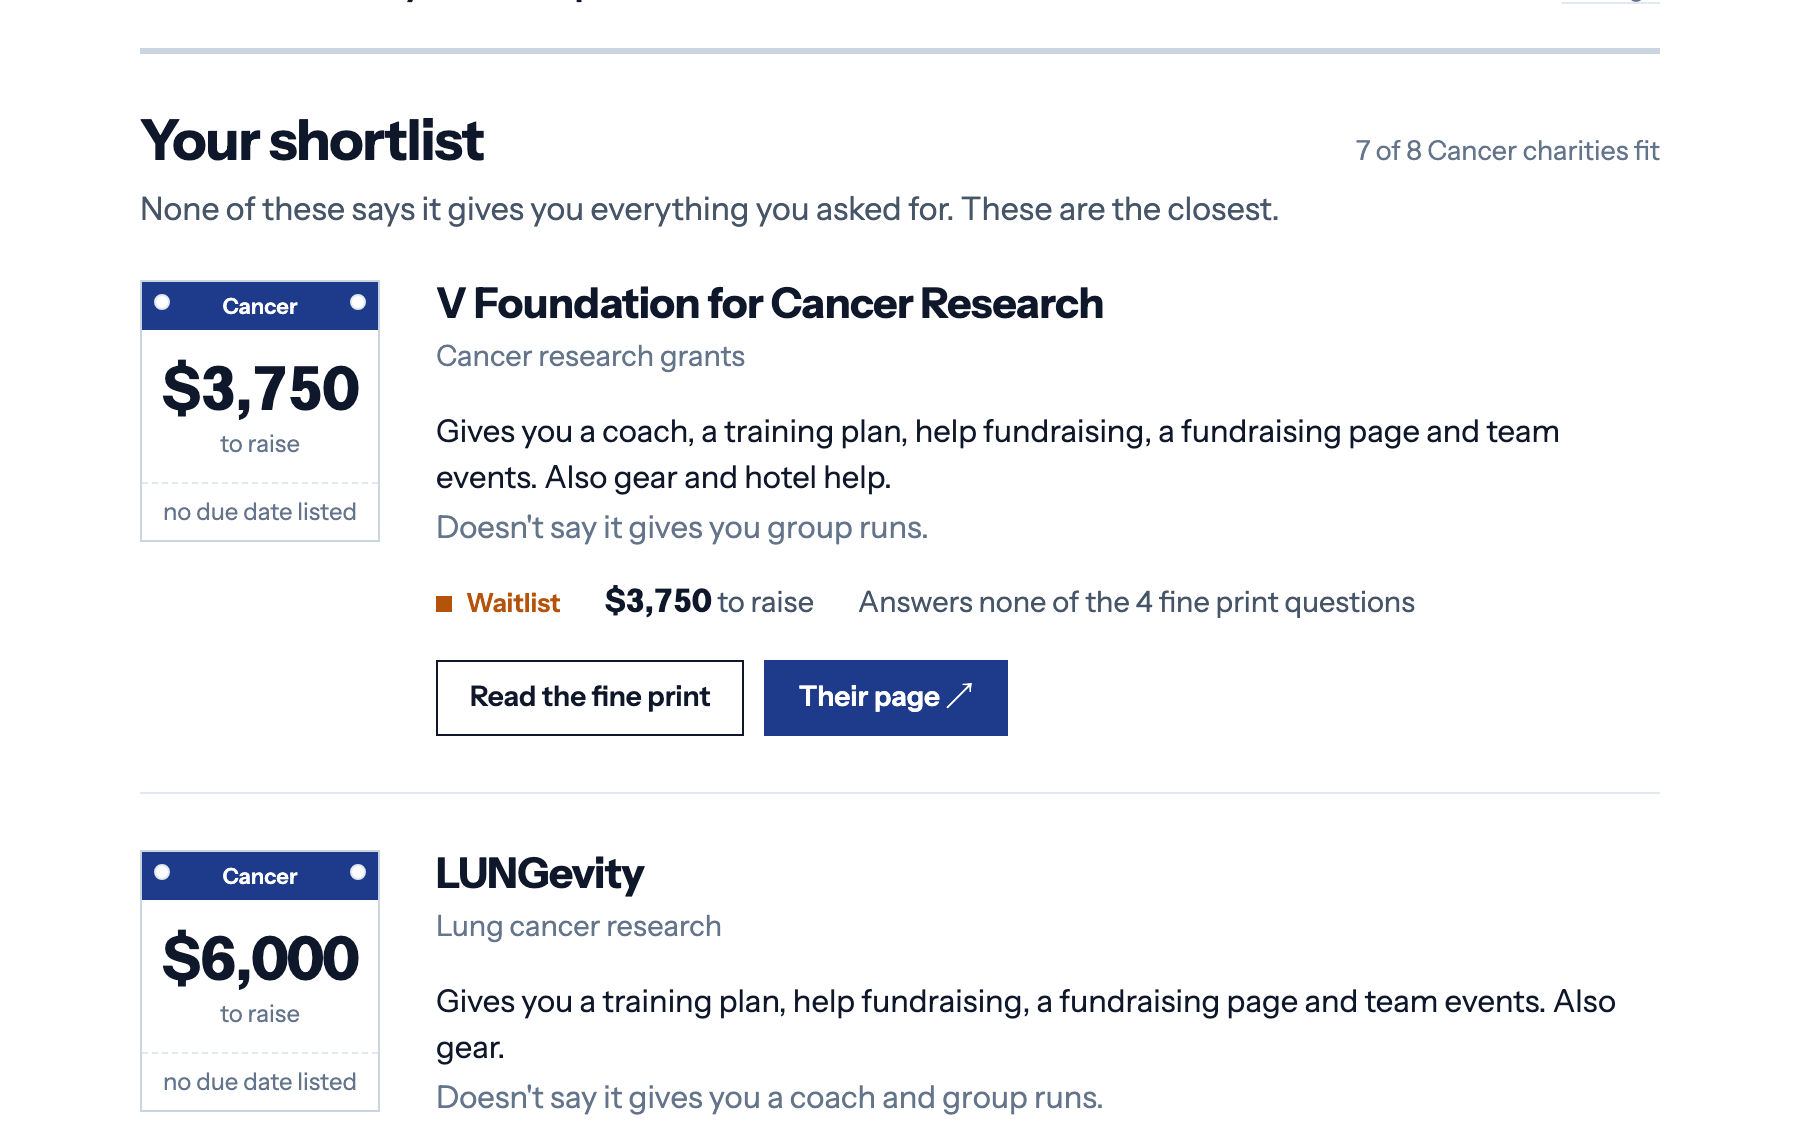
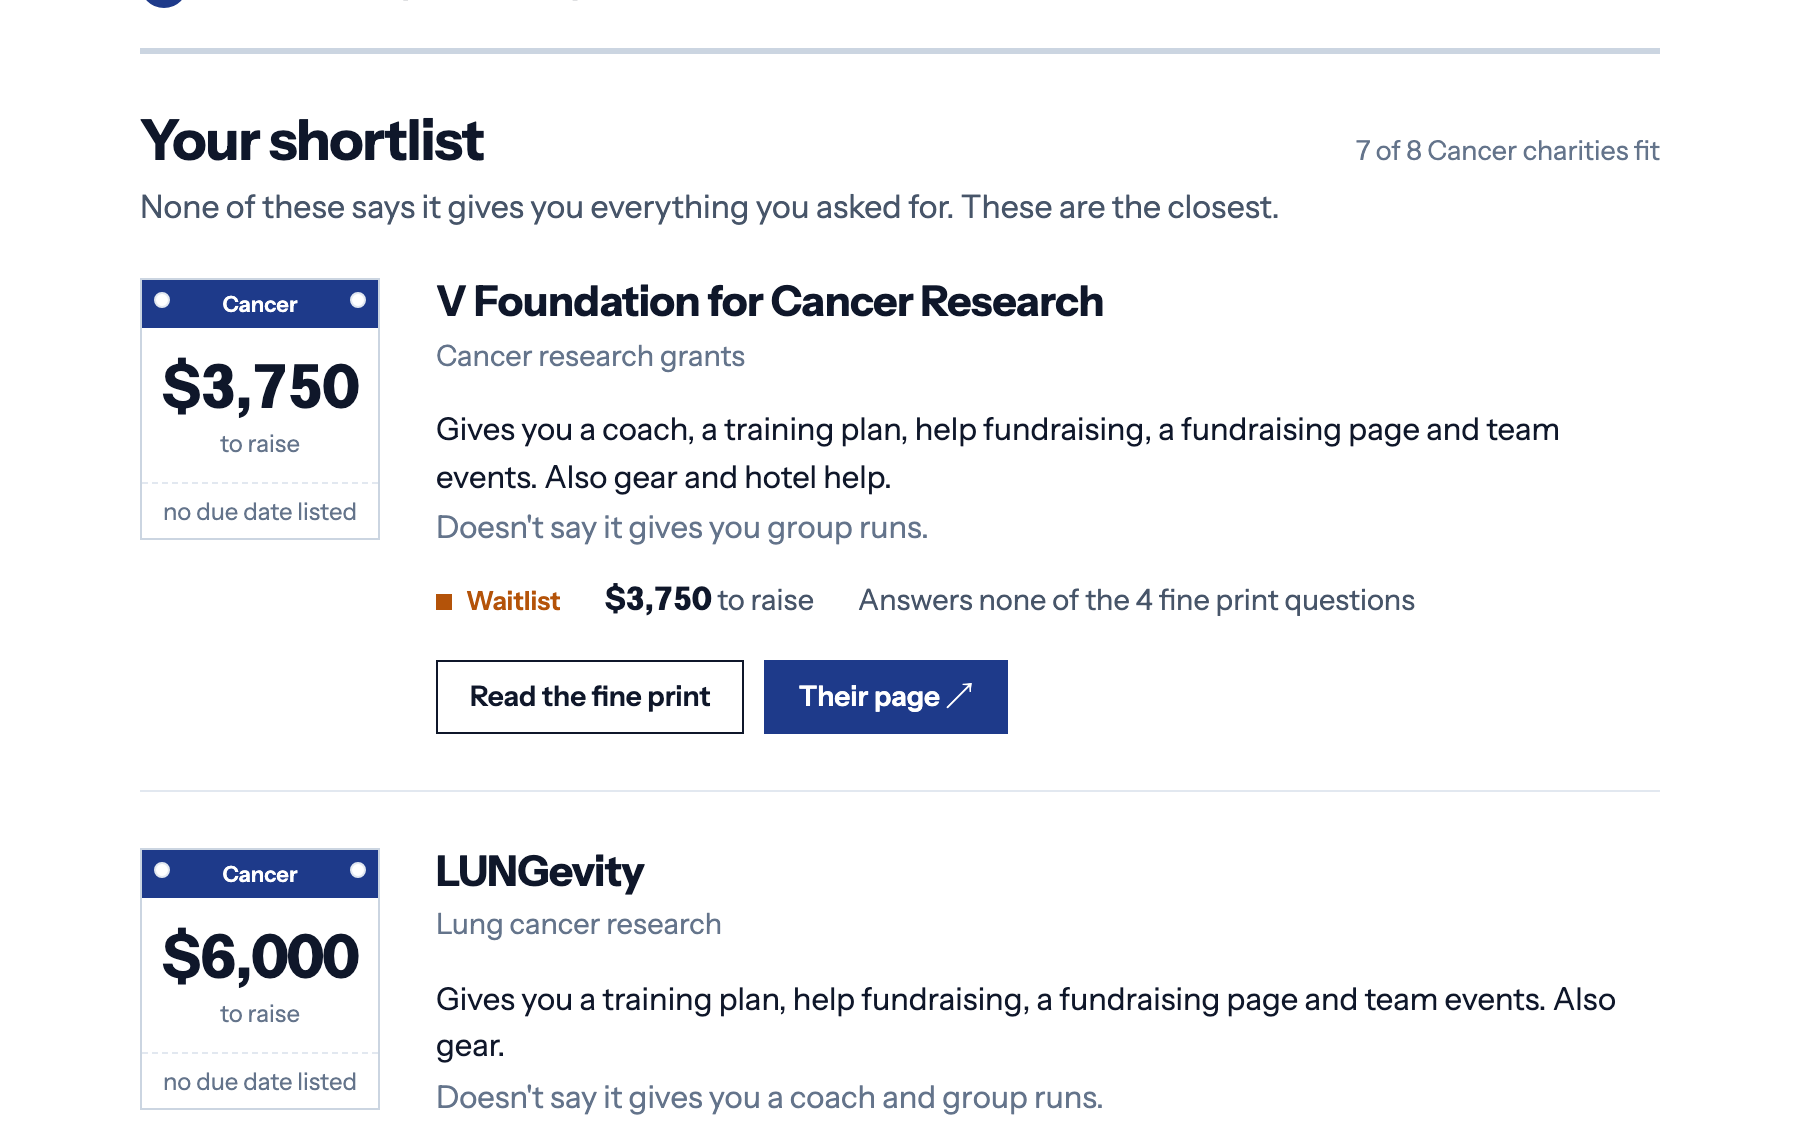
Plain headline and sub-line, header divider, numbered step circles; repair duplicated CSS rules

diff --git a/site/index.html b/site/index.html
@@ -7,8 +7,8 @@
 <meta name="description" content="Every NYC Marathon charity bib program in one place. Answer three questions and see which charities fit you: how much you'd raise, what each charity gives you, and who's still taking runners. Every number links to the charity's own page.">
 <link rel="canonical" href="https://charitybibs.com/">
 <meta property="og:type" content="website">
-<meta property="og:title" content="Which NYC Marathon charity should I run for?">
-<meta property="og:description" content="Answer three questions. See which charities fit, how much you'd raise, what they give you, and who's still taking runners.">
+<meta property="og:title" content="Find a charity to run the NYC Marathon for">
+<meta property="og:description" content="Three questions narrow the 27 official NYC Marathon charities to the ones that fit you: what you'd raise, what they give you, and who's still taking runners.">
 <meta property="og:url" content="https://charitybibs.com/">
 <meta property="og:image" content="https://charitybibs.com/og.png">
 <meta name="twitter:card" content="summary_large_image">
@@ -58,20 +58,19 @@ h1,h2,h3,h4,p{margin:0}
 /* header, intro */
 header{display:flex;gap:8px 24px;align-items:baseline;justify-content:space-between;padding:22px 0 16px;border-bottom:1.5px solid var(--hair)}
 .brand{font-family:var(--bib);font-weight:700;font-size:17px;letter-spacing:.08em;text-transform:uppercase;text-decoration:none;white-space:nowrap}
-.brand{font-family:var(--bib);font-weight:700;font-size:18px;letter-spacing:.03em;text-decoration:none}
-.brand small{font-family:var(--text);font-weight:400;font-size:12.5px;color:var(--mute);margin-left:12px;text-transform:none;letter-spacing:0}
+
+.brand small{font-family:var(--text);font-weight:400;font-size:13px;color:var(--ink2);margin-left:12px;padding-left:12px;border-left:1px solid var(--hair);text-transform:none;letter-spacing:0}
 header nav a{font-size:14px;color:var(--mute);text-decoration:none}
 header nav a:hover{color:var(--print)}
-.intro{padding:64px 0 36px}
-h1{font-family:var(--bib);font-weight:700;font-size:clamp(36px,5.5vw,60px);letter-spacing:-.02em;line-height:1.05;text-wrap:balance}
-.lede{margin:18px 0 0;font-size:18px;line-height:1.45;color:var(--ink2);max-width:40ch}
+.intro{padding:56px 0 32px}
+h1{font-family:var(--bib);font-weight:700;font-size:clamp(32px,4.2vw,46px);letter-spacing:-.02em;line-height:1.1;text-wrap:balance}
+.lede{margin:12px 0 0;font-size:16.5px;line-height:1.5;color:var(--ink2);max-width:56ch}
 
 /* the three questions */
-.qs{counter-reset:q}
 fieldset.qn{border:0;margin:0;padding:26px 0 30px;border-top:1.5px solid var(--hair);min-width:0}
 fieldset.qn[hidden]{display:none}
-fieldset.qn legend{float:left;width:100%;padding:0;margin:0 0 6px;display:flex;gap:18px;align-items:baseline}
-fieldset.qn legend::before{counter-increment:q;content:counter(q);font-family:var(--bib);font-weight:700;font-size:24px;line-height:1;color:var(--print);min-width:22px}
+fieldset.qn legend{float:left;width:100%;padding:0;margin:0 0 6px;display:flex;gap:14px;align-items:flex-start}
+fieldset.qn legend::before{content:attr(data-n);display:inline-flex;align-items:center;justify-content:center;width:26px;height:26px;border-radius:50%;border:1.5px solid var(--print);color:var(--print);font-family:var(--text);font-weight:600;font-size:13px;line-height:1;align-self:flex-start;margin-top:1px;flex:none;font-variant-numeric:tabular-nums}
 fieldset.qn legend .t{font-family:var(--bib);font-weight:700;font-size:24px;letter-spacing:-.01em;line-height:1.15}
 fieldset.qn legend .s{display:block;font-family:var(--text);font-weight:400;font-size:15px;text-transform:none;letter-spacing:0;color:var(--mute);margin-top:6px;line-height:1.4}
 .opts{clear:both;display:grid;grid-template-columns:1fr 1fr;column-gap:40px;padding-top:12px}
@@ -86,8 +85,8 @@ fieldset.qn legend .s{display:block;font-family:var(--text);font-weight:400;font
 .opt:has(input:checked) b{color:var(--print)}
 .opt:has(input:focus-visible){outline:2px solid var(--print);outline-offset:2px}
 fieldset.done{padding:14px 0}
-fieldset.done legend{margin:0;align-items:baseline}
-fieldset.done legend::before{font-size:16px;min-width:22px}
+fieldset.done legend{margin:0;align-items:center}
+fieldset.done legend::before{width:22px;height:22px;font-size:12px;background:var(--print);color:#fff;margin-top:0}
 fieldset.done .opts{display:none}
 fieldset.done legend .t{font-size:15px}
 fieldset.done legend .s{display:inline;margin:0 0 0 10px;color:var(--ink);font-size:15.5px}
@@ -210,7 +209,7 @@ footer .sp{margin-left:auto}
   .list-h .ctl{flex-basis:100%}
   footer .sp{margin-left:0}
 }
-@media (prefers-reduced-motion:reduce){html{scroll-behavior:auto}.opt input{transition:none}}
+@media (prefers-reduced-motion:reduce){html{scroll-behavior:auto}.opt input{transition:none}
 </style>
 </head>
 <body>
@@ -222,17 +221,17 @@ footer .sp{margin-left:auto}
 
 <div class="col">
 <div class="intro">
-  <h1>Which charity should I run for?</h1>
-  <p class="lede">Three questions to find your charity matches.</p>
+  <h1>Find a charity to run for</h1>
+  <p class="lede">Three questions. 27 official NYC Marathon 2026 charities. Every fact from the charity's own page.</p>
 </div>
 
 <form class="qs" id="form">
 <fieldset class="qn" id="q1">
-  <legend><span class="t">What do you want to run for?<span class="s">Pick one you'd be proud to ask friends to give to.</span></span><button type="button" class="chg" data-q="q1">Change</button></legend>
+  <legend data-n="1"><span class="t">What do you want to run for?<span class="s">Pick one you'd be proud to ask friends to give to.</span></span><button type="button" class="chg" data-q="q1">Change</button></legend>
   <div class="opts" id="o1"></div>
 </fieldset>
 <fieldset class="qn" id="q2" hidden>
-  <legend><span class="t">What help do you want?<span class="s">Prices are almost all the same. The help is not.</span></span><button type="button" class="chg" data-q="q2">Change</button></legend>
+  <legend data-n="2"><span class="t">What help do you want?<span class="s">Prices are almost all the same. The help is not.</span></span><button type="button" class="chg" data-q="q2">Change</button></legend>
   <div class="opts one">
     <label class="opt"><input type="radio" name="help" value="train"><span><b>People to train with.</b> A coach, group runs, a training plan.</span></label>
     <label class="opt"><input type="radio" name="help" value="fund"><span><b>Help asking for money.</b> A fundraising helper, a page, team events.</span></label>
@@ -241,7 +240,7 @@ footer .sp{margin-left:auto}
   </div>
 </fieldset>
 <fieldset class="qn" id="q3" hidden>
-  <legend><span class="t">How soon do you need a spot?<span class="s">Some are full for 2026. Some have a waitlist.</span></span><button type="button" class="chg" data-q="q3">Change</button></legend>
+  <legend data-n="3"><span class="t">How soon do you need a spot?<span class="s">Some are full for 2026. Some have a waitlist.</span></span><button type="button" class="chg" data-q="q3">Change</button></legend>
   <div class="opts one">
     <label class="opt"><input type="radio" name="when" value="open"><span><b>Now.</b> Only charities taking runners today.</span></label>
     <label class="opt"><input type="radio" name="when" value="wait"><span><b>I can wait.</b> Include waitlists.</span></label>

diff --git a/site/template.html b/site/template.html
@@ -7,8 +7,8 @@
 <meta name="description" content="Every NYC Marathon charity bib program in one place. Answer three questions and see which charities fit you: how much you'd raise, what each charity gives you, and who's still taking runners. Every number links to the charity's own page.">
 <link rel="canonical" href="https://charitybibs.com/">
 <meta property="og:type" content="website">
-<meta property="og:title" content="Which NYC Marathon charity should I run for?">
-<meta property="og:description" content="Answer three questions. See which charities fit, how much you'd raise, what they give you, and who's still taking runners.">
+<meta property="og:title" content="Find a charity to run the NYC Marathon for">
+<meta property="og:description" content="Three questions narrow the 27 official NYC Marathon charities to the ones that fit you: what you'd raise, what they give you, and who's still taking runners.">
 <meta property="og:url" content="https://charitybibs.com/">
 <meta property="og:image" content="https://charitybibs.com/og.png">
 <meta name="twitter:card" content="summary_large_image">
@@ -58,20 +58,19 @@ h1,h2,h3,h4,p{margin:0}
 /* header, intro */
 header{display:flex;gap:8px 24px;align-items:baseline;justify-content:space-between;padding:22px 0 16px;border-bottom:1.5px solid var(--hair)}
 .brand{font-family:var(--bib);font-weight:700;font-size:17px;letter-spacing:.08em;text-transform:uppercase;text-decoration:none;white-space:nowrap}
-.brand{font-family:var(--bib);font-weight:700;font-size:18px;letter-spacing:.03em;text-decoration:none}
-.brand small{font-family:var(--text);font-weight:400;font-size:12.5px;color:var(--mute);margin-left:12px;text-transform:none;letter-spacing:0}
+
+.brand small{font-family:var(--text);font-weight:400;font-size:13px;color:var(--ink2);margin-left:12px;padding-left:12px;border-left:1px solid var(--hair);text-transform:none;letter-spacing:0}
 header nav a{font-size:14px;color:var(--mute);text-decoration:none}
 header nav a:hover{color:var(--print)}
-.intro{padding:64px 0 36px}
-h1{font-family:var(--bib);font-weight:700;font-size:clamp(36px,5.5vw,60px);letter-spacing:-.02em;line-height:1.05;text-wrap:balance}
-.lede{margin:18px 0 0;font-size:18px;line-height:1.45;color:var(--ink2);max-width:40ch}
+.intro{padding:56px 0 32px}
+h1{font-family:var(--bib);font-weight:700;font-size:clamp(32px,4.2vw,46px);letter-spacing:-.02em;line-height:1.1;text-wrap:balance}
+.lede{margin:12px 0 0;font-size:16.5px;line-height:1.5;color:var(--ink2);max-width:56ch}
 
 /* the three questions */
-.qs{counter-reset:q}
 fieldset.qn{border:0;margin:0;padding:26px 0 30px;border-top:1.5px solid var(--hair);min-width:0}
 fieldset.qn[hidden]{display:none}
-fieldset.qn legend{float:left;width:100%;padding:0;margin:0 0 6px;display:flex;gap:18px;align-items:baseline}
-fieldset.qn legend::before{counter-increment:q;content:counter(q);font-family:var(--bib);font-weight:700;font-size:24px;line-height:1;color:var(--print);min-width:22px}
+fieldset.qn legend{float:left;width:100%;padding:0;margin:0 0 6px;display:flex;gap:14px;align-items:flex-start}
+fieldset.qn legend::before{content:attr(data-n);display:inline-flex;align-items:center;justify-content:center;width:26px;height:26px;border-radius:50%;border:1.5px solid var(--print);color:var(--print);font-family:var(--text);font-weight:600;font-size:13px;line-height:1;align-self:flex-start;margin-top:1px;flex:none;font-variant-numeric:tabular-nums}
 fieldset.qn legend .t{font-family:var(--bib);font-weight:700;font-size:24px;letter-spacing:-.01em;line-height:1.15}
 fieldset.qn legend .s{display:block;font-family:var(--text);font-weight:400;font-size:15px;text-transform:none;letter-spacing:0;color:var(--mute);margin-top:6px;line-height:1.4}
 .opts{clear:both;display:grid;grid-template-columns:1fr 1fr;column-gap:40px;padding-top:12px}
@@ -86,8 +85,8 @@ fieldset.qn legend .s{display:block;font-family:var(--text);font-weight:400;font
 .opt:has(input:checked) b{color:var(--print)}
 .opt:has(input:focus-visible){outline:2px solid var(--print);outline-offset:2px}
 fieldset.done{padding:14px 0}
-fieldset.done legend{margin:0;align-items:baseline}
-fieldset.done legend::before{font-size:16px;min-width:22px}
+fieldset.done legend{margin:0;align-items:center}
+fieldset.done legend::before{width:22px;height:22px;font-size:12px;background:var(--print);color:#fff;margin-top:0}
 fieldset.done .opts{display:none}
 fieldset.done legend .t{font-size:15px}
 fieldset.done legend .s{display:inline;margin:0 0 0 10px;color:var(--ink);font-size:15.5px}
@@ -210,7 +209,7 @@ footer .sp{margin-left:auto}
   .list-h .ctl{flex-basis:100%}
   footer .sp{margin-left:0}
 }
-@media (prefers-reduced-motion:reduce){html{scroll-behavior:auto}.opt input{transition:none}}
+@media (prefers-reduced-motion:reduce){html{scroll-behavior:auto}.opt input{transition:none}
 </style>
 </head>
 <body>
@@ -222,17 +221,17 @@ footer .sp{margin-left:auto}
 
 <div class="col">
 <div class="intro">
-  <h1>Which charity should I run for?</h1>
-  <p class="lede">Three questions to find your charity matches.</p>
+  <h1>Find a charity to run for</h1>
+  <p class="lede">Three questions. 27 official NYC Marathon 2026 charities. Every fact from the charity's own page.</p>
 </div>
 
 <form class="qs" id="form">
 <fieldset class="qn" id="q1">
-  <legend><span class="t">What do you want to run for?<span class="s">Pick one you'd be proud to ask friends to give to.</span></span><button type="button" class="chg" data-q="q1">Change</button></legend>
+  <legend data-n="1"><span class="t">What do you want to run for?<span class="s">Pick one you'd be proud to ask friends to give to.</span></span><button type="button" class="chg" data-q="q1">Change</button></legend>
   <div class="opts" id="o1"></div>
 </fieldset>
 <fieldset class="qn" id="q2" hidden>
-  <legend><span class="t">What help do you want?<span class="s">Prices are almost all the same. The help is not.</span></span><button type="button" class="chg" data-q="q2">Change</button></legend>
+  <legend data-n="2"><span class="t">What help do you want?<span class="s">Prices are almost all the same. The help is not.</span></span><button type="button" class="chg" data-q="q2">Change</button></legend>
   <div class="opts one">
     <label class="opt"><input type="radio" name="help" value="train"><span><b>People to train with.</b> A coach, group runs, a training plan.</span></label>
     <label class="opt"><input type="radio" name="help" value="fund"><span><b>Help asking for money.</b> A fundraising helper, a page, team events.</span></label>
@@ -241,7 +240,7 @@ footer .sp{margin-left:auto}
   </div>
 </fieldset>
 <fieldset class="qn" id="q3" hidden>
-  <legend><span class="t">How soon do you need a spot?<span class="s">Some are full for 2026. Some have a waitlist.</span></span><button type="button" class="chg" data-q="q3">Change</button></legend>
+  <legend data-n="3"><span class="t">How soon do you need a spot?<span class="s">Some are full for 2026. Some have a waitlist.</span></span><button type="button" class="chg" data-q="q3">Change</button></legend>
   <div class="opts one">
     <label class="opt"><input type="radio" name="when" value="open"><span><b>Now.</b> Only charities taking runners today.</span></label>
     <label class="opt"><input type="radio" name="when" value="wait"><span><b>I can wait.</b> Include waitlists.</span></label>

diff --git a/site/about.html b/site/about.html
@@ -23,8 +23,8 @@ a:hover{color:var(--print)}
 .col{max-width:680px;margin:0 auto}
 header{display:flex;gap:8px 24px;align-items:baseline;justify-content:space-between;padding:22px 0 16px;border-bottom:1.5px solid var(--hair)}
 .brand{font-family:var(--bib);font-weight:700;font-size:17px;letter-spacing:.08em;text-transform:uppercase;text-decoration:none;white-space:nowrap}
-.brand{font-family:var(--bib);font-weight:700;font-size:18px;letter-spacing:.03em;text-decoration:none}
-.brand small{font-family:var(--text);font-weight:400;font-size:12.5px;color:var(--mute);margin-left:12px;text-transform:none;letter-spacing:0}
+
+.brand small{font-family:var(--text);font-weight:400;font-size:13px;color:var(--ink2);margin-left:12px;padding-left:12px;border-left:1px solid var(--hair);text-transform:none;letter-spacing:0}
 header nav a{font-size:14px;color:var(--mute);text-decoration:none}
 header nav a:hover{color:var(--print)}
 h1{font-family:var(--bib);font-weight:700;font-size:clamp(34px,5vw,52px);letter-spacing:-.02em;line-height:1.05;margin:52px 0 28px}
@@ -41,7 +41,7 @@ dd{margin:0}
 footer{margin-top:64px;padding-top:16px;border-top:1.5px solid var(--hair);display:flex;flex-wrap:wrap;gap:8px 24px;font-size:12.5px;color:var(--mute)}
 footer a{text-decoration:none}
 footer .sp{margin-left:auto}
-@media (max-width:640px){body{padding-inline:16px}.brand small{display:none}h1{margin-top:36px}dl{grid-template-columns:1fr;gap:2px 0}dd{margin-bottom:10px}footer .sp{margin-left:0}}
+@media (max-width:640px){body{padding-inline:16px}.brand small{display:none}h1{margin-top:36px}dl{grid-template-columns:1fr;gap:2px 0}dd{margin-bottom:10px}footer .sp{margin-left:0}
 </style>
 </head>
 <body>
